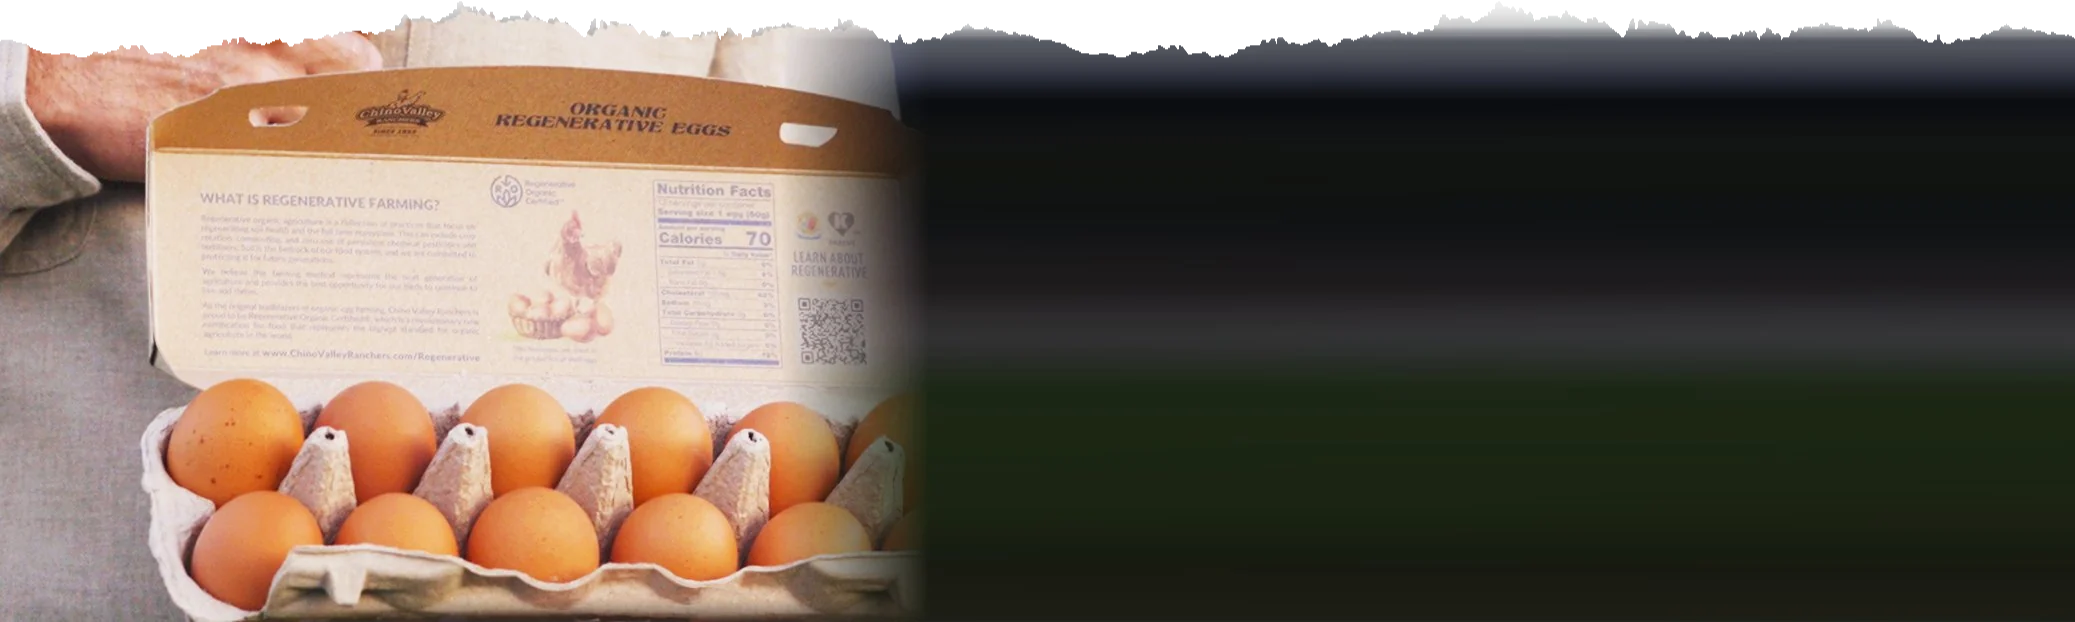
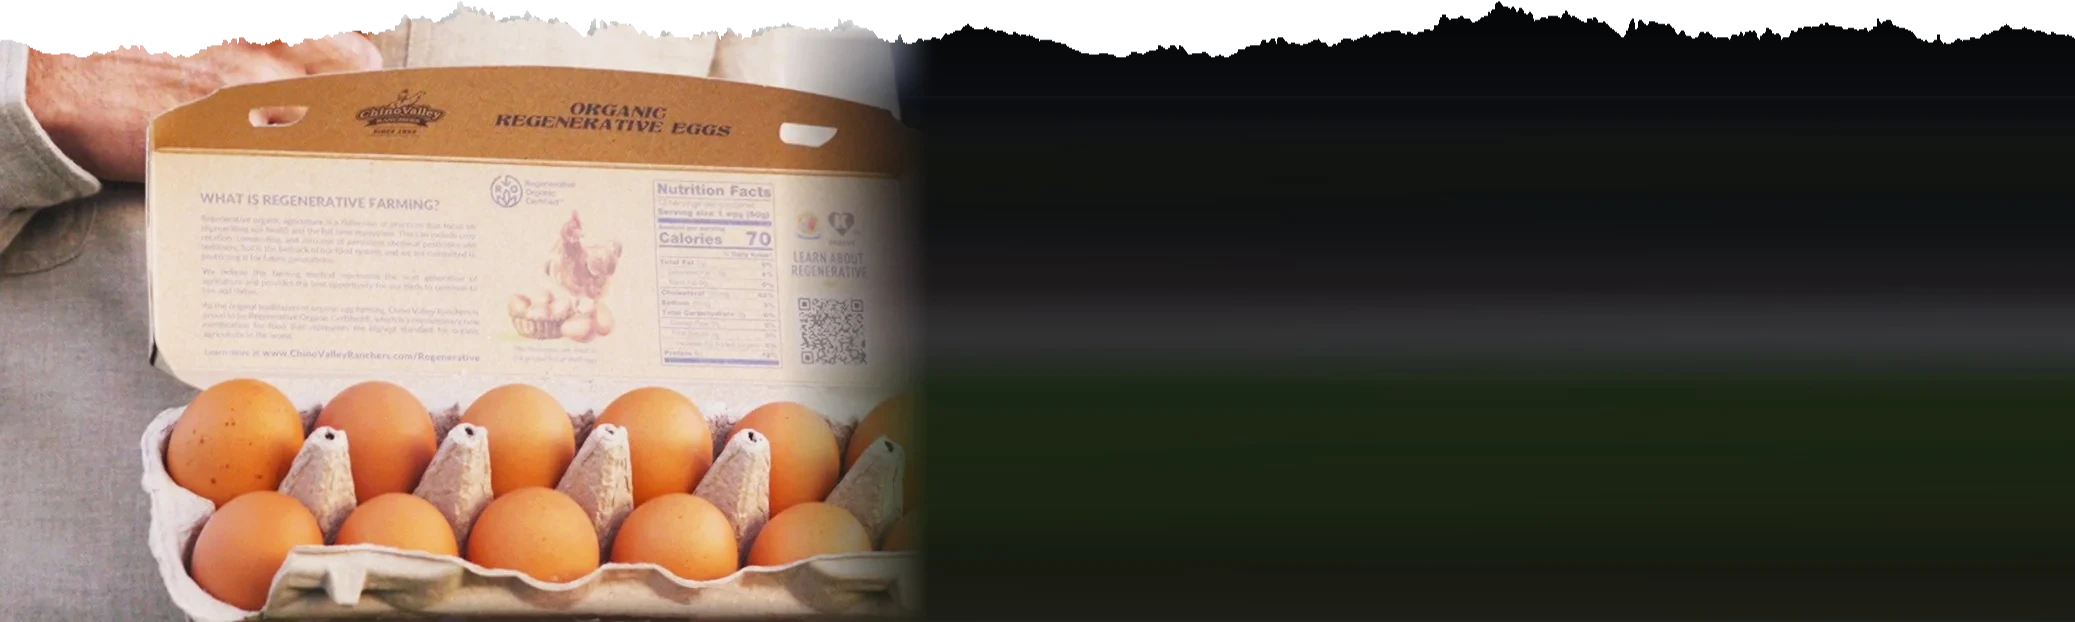
Regenerative WI-20: pre-footer cross-fade, tear haze, desktop column
- 768-880: photo shifted -6vw so its cross-fade clears heading line 1
  (3.3:1 -> 9.0:1). The spec's 900 limit uncovered the right edge from 881.
- prefooter-bg.webp: grey haze under the tear on the ramp side darkened
  (row 40 at x1500 was 92/96/104), feathered in over x880-940, alpha
  byte-identical. Generator kept at scripts/qa/regen/fig/prefooter_dehaze.py.
- 1024+: 38/62 grid, 75% column, Figma sizes and tracking (heading 2.47vw
  .05em, claims 2.31vw .02em at 77%) with the .fig's own leading so the
  two-line claims keep the band at 3.33. Heading ink centre 1051 -> 994
  (design 992). New sec9crafttest.js.

Claude-Session: https://claude.ai/code/session_01LWByyercuKycdp4f9PRau2

Changed region(s): [[0.4318, 0.0, 1.0, 0.1527]]

diff --git a/scripts/qa/regen/sec9crafttest.js b/scripts/qa/regen/sec9crafttest.js
@@ -1,0 +1,74 @@
+// Pre-footer craft (review item WI-20).
+//  - At 768 the photo's cross-fade into the dark ramp ran behind the first
+//    line of the heading: its worst pixel gave the orange only 4.5:1.
+//  - Under the tear, the ramp side of the asset carried a grey haze (row 40
+//    at x1500 was rgb 92,96,104) that read as fog over the torn edge.
+//  - At 1440 the type column sat right of the design's: heading ink centred
+//    at 1051 against the design's 992.
+const { chromium } = require('playwright');
+const sharp = require('sharp');
+const path = require('path');
+const R=[];const ck=(n,p,d='')=>{R.push(p);console.log(`${p?'PASS':'FAIL'}  ${n}${d?' — '+d:''}`)};
+const lin=c=>{c/=255;return c<=0.03928?c/12.92:((c+0.055)/1.055)**2.4};
+const L=(r,g,b)=>0.2126*lin(r)+0.7152*lin(g)+0.0722*lin(b);
+const CR=(a,b)=>{const [x,y]=a>b?[a,b]:[b,a];return (x+0.05)/(y+0.05)};
+(async()=>{
+  // Asset rows under the tear, ramp side.
+  const {data,info}=await sharp(path.join(__dirname,'../../../public/images/regen/prefooter-bg.webp')).raw().toBuffer({resolveWithObject:true});
+  let worstRow=null;
+  for(let y=40;y<=80;y++){const i=(y*info.width+1500)*info.channels;
+    const lum=0.2126*data[i]+0.7152*data[i+1]+0.0722*data[i+2];
+    if(!worstRow||lum>worstRow.lum) worstRow={y,lum,rgb:[data[i],data[i+1],data[i+2]]};}
+  ck('no grey haze under the tear on the ramp (rows 40-80 at x1500, luminance < 30)',
+     worstRow.lum<30, `row ${worstRow.y} rgb(${worstRow.rgb})`);
+  ck('asset keeps its 2075x622 size', info.width===2075&&info.height===622, `${info.width}x${info.height}`);
+
+  const b=await chromium.launch();
+  const open=async w=>{const p=await b.newContext({viewport:{width:w,height:900}}).then(c=>c.newPage());
+    await p.goto('http://localhost:7500/regenerative',{waitUntil:'networkidle',timeout:60000});
+    await p.getByRole('region',{name:/cookie consent/i}).getByRole('button',{name:/reject all/i}).click().catch(()=>{});
+    await p.locator('.regen-prefooter-title').scrollIntoViewIfNeeded(); await p.waitForTimeout(600);
+    await p.evaluate(()=>document.fonts.ready); return p;};
+
+  // The ground behind heading line 1 -- only where the letters actually are.
+  // Screenshot the line with the type, then without; pixels that changed are
+  // the ink, and the worst ground under that ink is what the reader gets.
+  // The line's BOX reaches up into the white tear at 900, above the caps, and
+  // sampling the whole box reported 1.02:1 for paper no letter touches.
+  for(const w of [768,820,860,880,881,900]){
+    const p=await open(w);
+    const r=await p.evaluate(()=>{const h=document.querySelector('.regen-prefooter-title');
+      const rg=document.createRange();rg.selectNodeContents(h);const q=[...rg.getClientRects()];
+      const top=Math.min(...q.map(x=>x.top));const l1=q.filter(x=>x.top<top+2);
+      return {x:Math.floor(Math.min(...l1.map(x=>x.left))),y:Math.floor(top),
+              r:Math.ceil(Math.max(...l1.map(x=>x.right))),b:Math.ceil(Math.max(...l1.map(x=>x.bottom)))};});
+    const clip={x:r.x,y:r.y,width:r.r-r.x,height:r.b-r.y};
+    const withInk=await sharp(await p.screenshot({clip})).raw().toBuffer({resolveWithObject:true});
+    await p.evaluate(()=>{document.querySelector('.regen-prefooter-title').style.color='transparent'});
+    const ground=await sharp(await p.screenshot({clip})).raw().toBuffer({resolveWithObject:true});
+    let worst=99,n=0;const fg=L(0xF8,0xA0,0x14);const C=ground.info.channels;
+    for(let i=0;i<ground.data.length;i+=C){
+      const d=Math.abs(withInk.data[i]-ground.data[i])+Math.abs(withInk.data[i+1]-ground.data[i+1])+Math.abs(withInk.data[i+2]-ground.data[i+2]);
+      if(d<60) continue; n++;
+      const c=CR(fg,L(ground.data[i],ground.data[i+1],ground.data[i+2]));if(c<worst)worst=c;}
+    ck(`heading line 1 ground gives the orange at least 6:1 at ${w}`, n>0&&worst>=6, `worst ${worst.toFixed(2)}:1 over ${n} ink px`);
+    await p.close();
+  }
+  // The -6vw shift must not uncover the page at the right edge.
+  for(const w of [768,840,880,881,900,933,960,1023]){
+    const p=await open(w);
+    const box=await p.evaluate(()=>{const r=document.querySelector('.regen-prefooter-section').getBoundingClientRect();return {y:r.top+r.height*0.4,h:r.height*0.5};});
+    const im=await sharp(await p.screenshot({clip:{x:w-3,y:box.y,width:3,height:box.h}})).raw().toBuffer({resolveWithObject:true});
+    let light=0,n=0;for(let i=0;i<im.data.length;i+=im.info.channels){n++;if(im.data[i]>200&&im.data[i+1]>200&&im.data[i+2]>200)light++;}
+    ck(`photograph reaches the right edge at ${w}`, light===0, `${light}/${n} white px in the last 3 columns`);
+    await p.close();
+  }
+  // 1440: heading ink centre.
+  const p=await open(1440);
+  const cx=await p.evaluate(()=>{const rg=document.createRange();rg.selectNodeContents(document.querySelector('.regen-prefooter-title'));const q=rg.getBoundingClientRect();return (q.left+q.right)/2;});
+  ck('heading ink centred at the design\'s x992 at 1440', Math.abs(cx-992)<=15, `${Math.round(cx)}`);
+  await p.close();
+  await b.close();
+  const f=R.filter(x=>!x).length;
+  console.log(`\n${R.length-f}/${R.length} passed`);
+})();

diff --git a/styles/globals.css b/styles/globals.css
@@ -963,6 +963,19 @@ html {
   }
 }
 
+/* At the narrow end of the two-column range the photo's cross-fade into the
+   dark ramp ran behind the first line of the heading (4.5:1 at its worst
+   pixel at 768). Shifting the photograph left by 6vw moves the fade out from
+   under the type. Only to 880: below 933 the section is 280px tall and
+   `cover` sizes the image by height, to 934px wide, so a 6vw shift uncovers
+   the right edge from 881 up (all white at 900). Past 880 the fade already
+   clears the heading. (Review item WI-20.) */
+@media (min-width: 768px) and (max-width: 880px) {
+  .regen-prefooter-section {
+    background-position: -6vw top !important;
+  }
+}
+
 /* The pre-footer's photograph carries its own torn top edge, so the section
    has to sit ON the white band above rather than below it -- otherwise the
    rip's transparent part shows the page's own white and the seam reads as a
@@ -1028,6 +1041,55 @@ html {
   }
   .regen-prefooter-grid > div:last-child {
     padding-top: 69vw !important;
+  }
+}
+
+/* ── Pre-footer column at desktop (review item WI-20) ───────────────────
+   The type column sat right of the design's: the heading's ink centred at
+   1051 at 1440 against the design's 992. A 38/62 split with a 75% column puts
+   it back. The design's claims are Lato 48px with 0.96px tracking (node
+   5:198) -- 2.31vw and .02em, at 77% of the column -- and the heading carries
+   2.56px tracking on 51.26px (node 5:200), .05em. 1024 and up only: at 768
+   the column would land on the photograph's cross-fade. */
+@media (min-width: 1024px) {
+  .regen-prefooter-grid {
+    grid-template-columns: 38% 62%;
+  }
+  .regen-prefooter-grid > div:last-child {
+    max-width: 75% !important;
+  }
+  /* 2.47vw is the design's own 51.26px on the 2075 artboard. At the 2.62vw
+     this had been, the design's tracking broke the heading onto four lines. */
+  .regen-prefooter-title {
+    font-size: clamp(18px, 2.47vw, 45px) !important;
+    letter-spacing: 0.05em !important;
+  }
+  .regen-prefooter-section p {
+    font-size: clamp(14px, 2.31vw, 40px) !important;
+    letter-spacing: 0.02em;
+    max-width: 77%;
+    margin-left: auto;
+    margin-right: auto;
+  }
+  /* At the design's size the claims run two lines each, as they do in the
+     .fig, and only fit the band with the design's own setting. Its layout
+     data (derivedTextData) pitches the claims at 49px on 48px type and the
+     heading at 61px on 51.26px, with one blank 49px line between the claims
+     where the rule sits. At this build's 1.35 and 1.24 the band grew from
+     432px to 482px at 1440. 1.1 rather than 1.02 for the claims: Lato's
+     descenders touch the next line's caps any tighter. */
+  .regen-prefooter-title {
+    line-height: 1.19 !important;
+  }
+  .regen-prefooter-section p {
+    line-height: 1.1 !important;
+  }
+  .regen-prefooter-section p:first-of-type {
+    margin-top: 0.6em !important;
+    padding-bottom: 0.5em !important;
+  }
+  .regen-prefooter-section p:last-of-type {
+    margin-top: 0.5em !important;
   }
 }
 

diff --git a/scripts/qa/regen/fig/prefooter_dehaze.py b/scripts/qa/regen/fig/prefooter_dehaze.py
@@ -1,0 +1,22 @@
+import sys
+from PIL import Image
+import numpy as np
+src,dst=sys.argv[1],sys.argv[2]
+im=np.array(Image.open(src).convert('RGBA')).astype(np.float64)
+H,W,_=im.shape
+out=im.copy()
+top=np.array([6,7,9],float)
+for x in range(880,W):
+    # Feather in across the photo's own cross-fade so there is no column step.
+    t=min(1,(x-880)/60); wx=t*t*(3-2*t)
+    base=im[100,x,:3]
+    for y in range(0,96):
+        # Rows above 30 are the tear's soft, semi-transparent fringe. Left grey
+        # they ended in a hard line where the dark rows began.
+        f=max(0,(y-30)/(95-30))
+        new=top*(1-f)+base*f
+        out[y,x,:3]=im[y,x,:3]*(1-wx)+new*wx
+out[...,3]=im[...,3]  # alpha untouched
+Image.fromarray(out.round().clip(0,255).astype(np.uint8),'RGBA').save(dst,'WEBP',quality=92,method=6,alpha_quality=100,exact=True)
+a=np.array(Image.open(src).convert('RGBA'))[...,3]; b=np.array(Image.open(dst).convert('RGBA'))[...,3]
+print('alpha identical:', np.array_equal(a,b), 'size', Image.open(dst).size)
